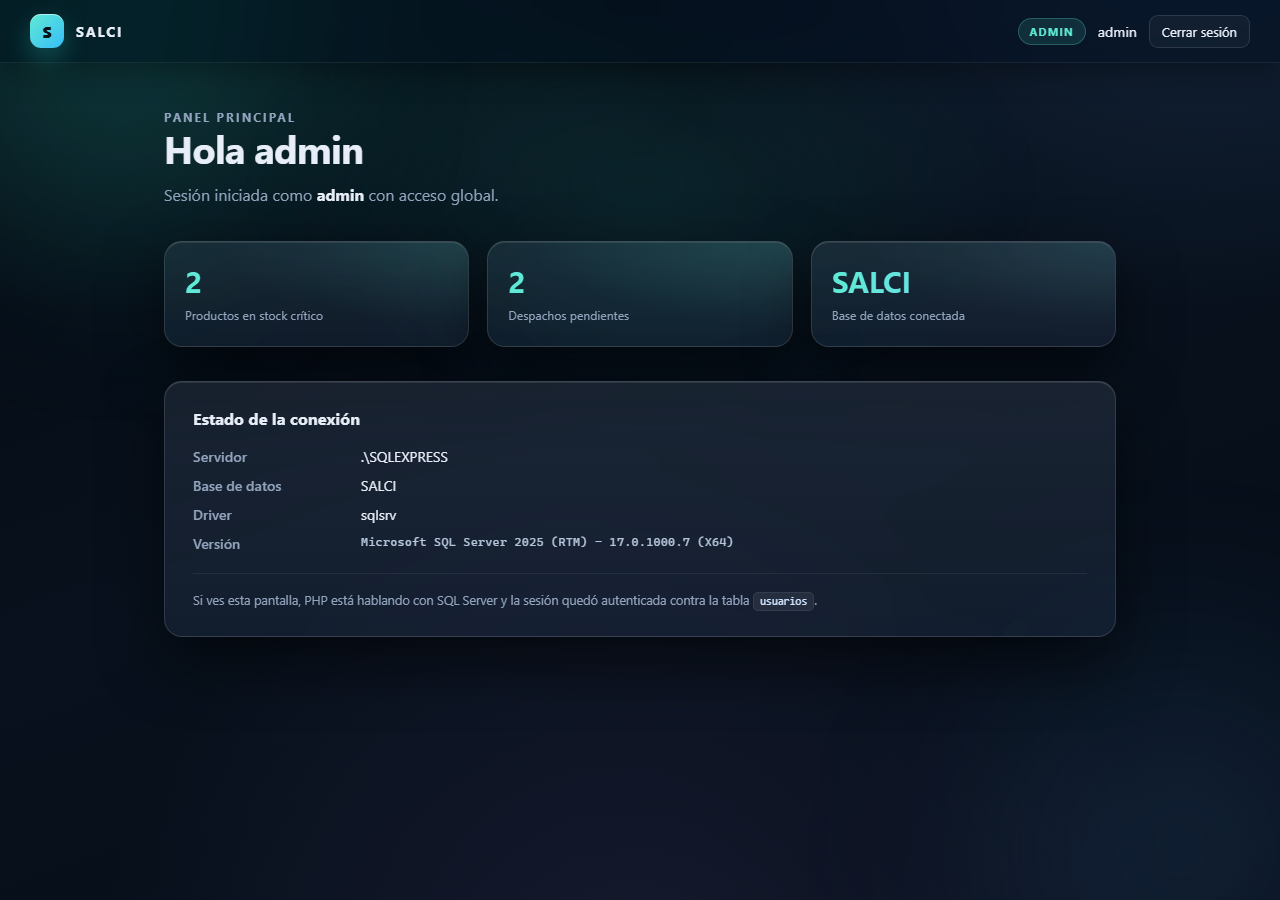
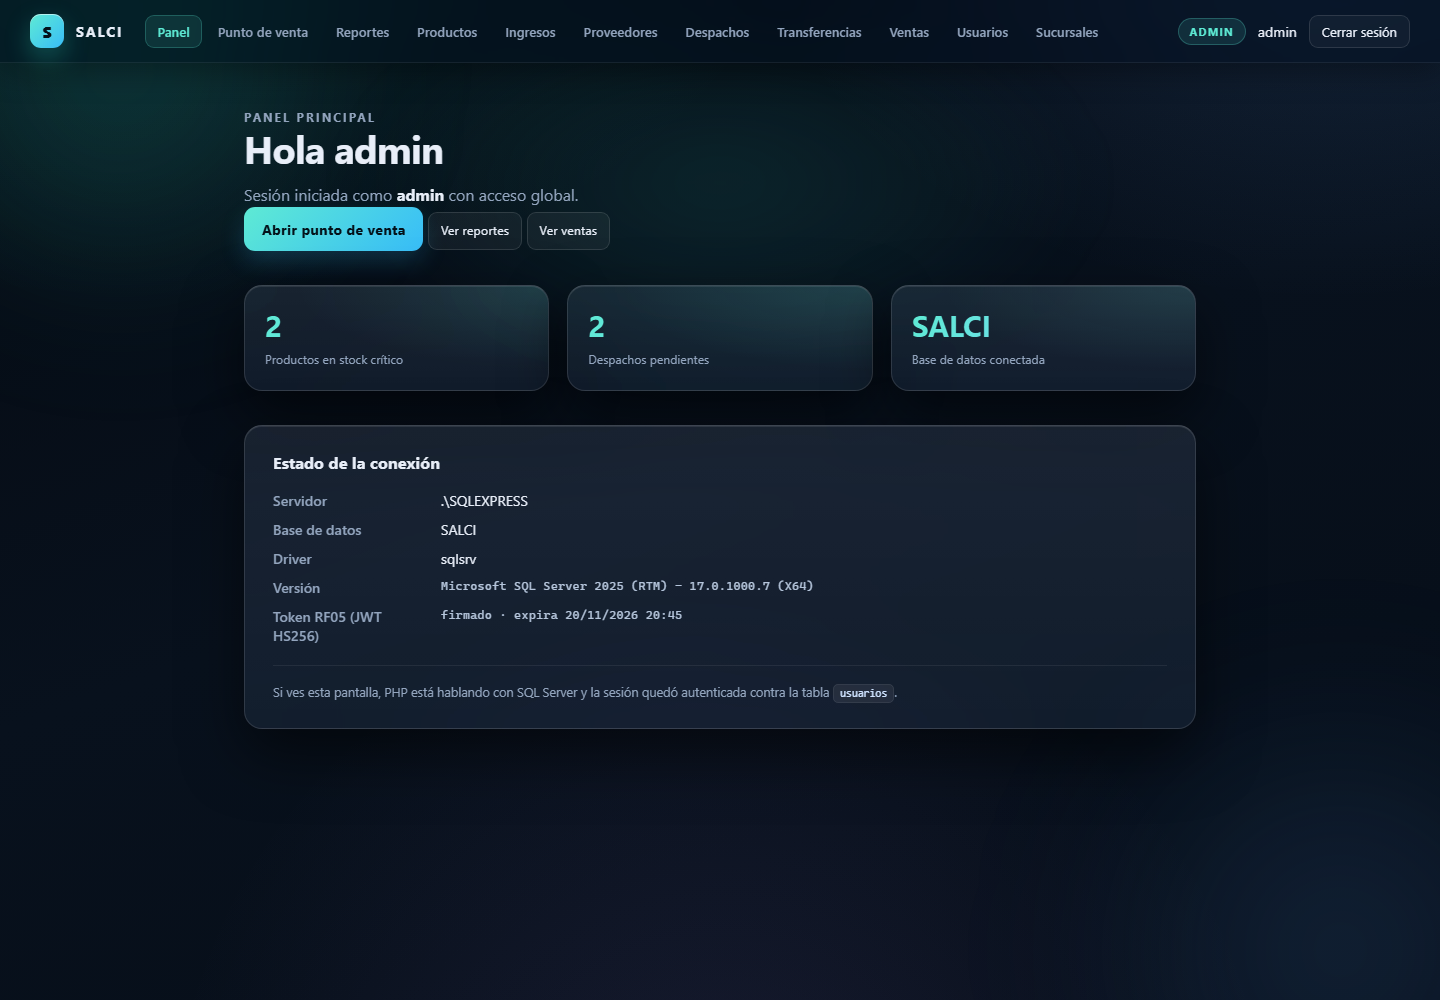
Entrega final: capturas, guion de defensa y documentacion

diff --git a/docs/defensa.md b/docs/defensa.md
@@ -1,0 +1,117 @@
+# Guion de presentación y defensa oral
+
+Duración sugerida: 8–10 minutos de demostración + 5 minutos de preguntas.
+Todo se ejecuta sobre SQL Server local `.\SQLEXPRESS` y XAMPP. Si se pide
+reiniciar: `sqlcmd -S .\SQLEXPRESS -E -C -f 65001 -i db\02_seed.sql`.
+
+---
+
+## 1. Introducción (30 s)
+
+> “SALCI es un sistema de inventario y logística para tres sucursales. El
+> modelo quedó en 12 tablas, normalizado hasta 3FN, con SQL Server 2025 Express
+> como SGBD y PHP 8 con PDO como capa de aplicación. La base no se sube a
+> GitHub: cada integrante la recrea con `01_schema.sql` y `02_seed.sql`.
+> El prototipo cubre login JWT, panel por rol, POS, CRUD de las tres tablas
+> exigidas, reportes y exportación CSV.”
+
+---
+
+## 2. Modelo de datos (1 min)
+
+Mostrar `docs/MER-corregido.md` o `db/diagrama.dbml` y decir:
+
+- **Tabla 1** (catálogo): `productos`.
+- **Tabla 2 (1:N)**: `proveedores → lotes` y `sucursales → inventario`.
+- **Tabla N:N**: `ventas ↔ productos` resuelta por `venta_detalle`.
+- **Transacciones**: `transacciones` es el kardex; cada movimiento guarda
+  `tipo`, `cantidad`, `stock_resultante`, `sucursal_id` y `grupo_id`.
+- **Usuarios**: `usuarios` con `rol` y `sucursal_id`; ADMIN ve todas,
+  OPERADOR solo la suya.
+- `proveedores`, `compradores` y `ventas` son tablas independientes, como
+  pide la observación del informe.
+- El stock **no** está en `productos`: está en `inventario(producto_id,
+  sucursal_id)` para cumplir 3FN y evitar repetir el catálogo por sede.
+
+---
+
+## 3. Recorrido de demostración (5–6 min)
+
+| # | Acción en el navegador | Qué se debe señalar |
+|---|---|---|
+| 1 | `http://localhost/salci/login.php` → `admin` / `Salci2026!` | Login real contra SQL Server; credencial incorrecta muestra error; sin sesión redirige al login. |
+| 2 | Panel principal | Muestra `DB_NAME()`, driver `sqlsrv`, versión, stock crítico y despachos pendientes. Al lado, “Token RF05 (JWT HS256)” con su vigencia de 24 h. Captura `panel-admin.png`. |
+| 3 | **Punto de venta** → agregar un producto → **Cobrar** | Se crea `ventas` + `venta_detalle` en una sola transacción, descuenta `inventario`, inserta movimiento y muestra el ticket. |
+| 4 | **Productos** → crear, editar, dar de baja y reactivar | CRUD de la tabla 1. Baja lógica con `activo = 0`; el POS deja de mostrarlo. Captura `productos.png`. |
+| 5 | **Ingresos** → nuevo lote con proveedor → anularlo | CRUD de la tabla 2 (1:N): alta registra `INGRESO`; anular revierte con `AJUSTE` sin borrar el lote por sus FK. Captura `ingresos.png`. |
+| 6 | **Despachos** → crear → `EN_RUTA` → `COMPLETADO` | RF09 con estados y `fecha_entrega`. Captura `despachos.png`. |
+| 7 | **Transferencias** → origen Chillán, destino Concepción | RF12: un mismo `grupo_id` con `TRANSFERENCIA_SALIDA` + `TRANSFERENCIA_INGRESO`; stock original no cambia, se mueve entre sedes. Captura `transferencias.png`. |
+| 8 | **Usuarios** y **Sucursales** | RF06/RF07: alta, edición, baja lógica; bloqueo de última cuenta ADMIN y de sucursales con usuarios/stock/movimientos. Capturas `usuarios.png`, `sucursales.png`. |
+| 9 | **Ventas** → **Ver** ticket → **Anular** | CRUD de la tabla N:N: el alta viene del POS, la lectura del ticket y la baja devuelve stock con `AJUSTE`. Captura `ventas.png`. |
+| 10 | **Reportes** → filtrar por sucursal → descargar CSV | RF13/RF14: dashboard, stock en vivo, tablas 1/2/N:N y CSV con BOM UTF-8. Captura `reportes.png`. |
+
+---
+
+## 4. Las 4 consultas SQL (1 min)
+
+Abrir `db/03_queries.sql` y ejecutarlo con:
+
+```bat
+sqlcmd -S .\SQLEXPRESS -E -C -f 65001 -i db\03_queries.sql
+```
+
+| Pauta | Consulta | Qué demuestra |
+|---|---|---|
+| 1 | Validación de login | Compara `password_hash` contra `SHA-256(salt || password)` solo si `activo = 1`. |
+| 2 | Informe tabla 1 | Catálogo de `productos` con estado y stock agregado por sede. |
+| 3 | Informe tabla 2 (1:N) | `proveedores → lotes`, con cantidad y total por lote; segunda variante `sucursales → inventario`. |
+| 4 | Informe de transacciones (N:N) | `ventas → venta_detalle → productos`, con líneas, subtotal, IVA y total. |
+
+Las consultas de apoyo alimentan el dashboard, top 5, alertas RF02, kardex,
+transferencias y los CSV.
+
+---
+
+## 5. Respuestas probables (3 min)
+
+**¿Por qué 3FN y no una sola tabla con stock en `productos`?**
+Porque el mismo producto existe en varias sucursales con stock distinto. Si el
+stock estuviera en `productos`, se repetiría el nombre/precio por cada sede y
+habría dependencias parciales. `inventario` separa la identidad del producto de
+su existencia por sucursal.
+
+**¿Cómo se evita que dos cajeros vendan el último artículo?**
+`op_mover_stock()` actualiza `inventario` con `UPDLOCK, ROWLOCK`, valida
+`stock >= cantidad` y escribe el movimiento dentro de la misma transacción.
+Si no hay stock, se hace `ROLLBACK` y no se crea la venta.
+
+**¿Qué pasa si falla el correo o el webhook de una alerta?**
+La alerta ya quedó en `registro_alertas` y el stock ya se confirmó. RF02 se
+envía **después del COMMIT** como mejor esfuerzo; un fallo externo se registra
+en logs pero nunca revierte el inventario. Sin constantes configuradas no se
+intenta envío.
+
+**¿JWT o sesión PHP?**
+Se emite un JWT HS256 firmado con `JWT_SECRET` que lleva `sub`, `rol`,
+`suc` y `exp` a 24 h. Se guarda dentro de la sesión PHP (cookie HttpOnly y
+SameSite=Lax) para no exponerlo a JavaScript; `auth_require()` valida firma y
+vencimiento antes de cada página. Al vencer, cierra sesión y avisa en el login.
+
+**¿Por qué baja lógica en vez de `DELETE`?**
+Los lotes, ventas y usuarios tienen historial y foreign keys. Borrarlos
+rompería el kardex o la auditoría. Por eso se usa `activo = 0`,
+`lotes.anulado = 1` y `ventas.estado = 'ANULADA'`, con reversa de stock
+cuando corresponde.
+
+**¿Cómo se generó el respaldo?**
+`db/04_backup.sql` ejecuta `BACKUP DATABASE SALCI TO DISK = '...\SALCI.bak'`
+y luego `RESTORE VERIFYONLY`. SQL Server Express no admite `COMPRESSION`.
+
+---
+
+## 6. Evidencias incluidas
+
+`docs/capturas/`: `login.png`, `panel-admin.png`, `panel-trabajador.png`,
+`pos.png`, `productos.png`, `ingresos.png`, `despachos.png`,
+`transferencias.png`, `usuarios.png`, `sucursales.png`, `ventas.png`,
+`reportes.png`.

diff --git a/docs/como-ejecutar.md b/docs/como-ejecutar.md
@@ -58,9 +58,10 @@ sqlcmd -S .\SQLEXPRESS -E -C -f 65001 -i db\02_seed.sql
 
 - `01_schema.sql` crea la base `SALCI` si no existe y todas las tablas.
 - `02_seed.sql` carga los datos de demostración.
-- Si tu base ya existía con el esquema anterior, ejecuta **una sola vez**
-  `sqlcmd -S .\SQLEXPRESS -E -C -f 65001 -i db\05_migracion_pos.sql`:
-  agrega `productos.precio` sin borrar datos (necesario para el POS).
+- `01_schema.sql` ya incluye `productos.precio`, `productos.activo` y
+  `lotes.anulado`. Si tu base venía de una versión anterior, aplica una sola
+  vez las migraciones `05_migracion_pos.sql`, `06_migracion_productos_activo.sql`
+  y `07_migracion_lotes_anulado.sql` antes de cargar el seed.
 
 > **Aviso:** `02_seed.sql` borra los datos actuales y los reemplaza por los de
 > demo. No ejecutarlo si alguien ya cargó información que quiere conservar.

diff --git a/README.md b/README.md
@@ -329,3 +329,10 @@ C:\Program Files\Microsoft SQL Server\MSSQL17.SQLEXPRESS\MSSQL\Backup\SALCI.bak
 > SQL Server Express **no** soporta `BACKUP ... WITH COMPRESSION`.
 > La carpeta de respaldos requiere permisos de administrador para copiar
 > el archivo a otro medio.
+
+## 9. Evidencias y defensa
+
+- `docs/defensa.md`: guion de presentación, recorrido de demostración y
+  respuestas a las preguntas habituales de la defensa.
+- `docs/capturas/`: capturas del demo limpio (login, panel, POS y los CRUD).
+- `docs/MER-corregido.md` y `db/diagrama.dbml`: modelo y relaciones.
